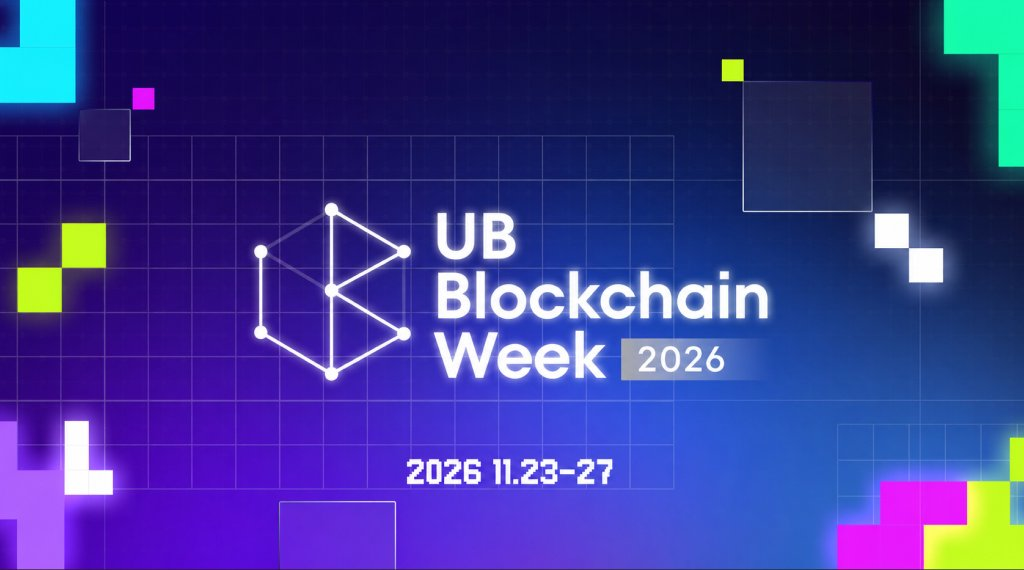
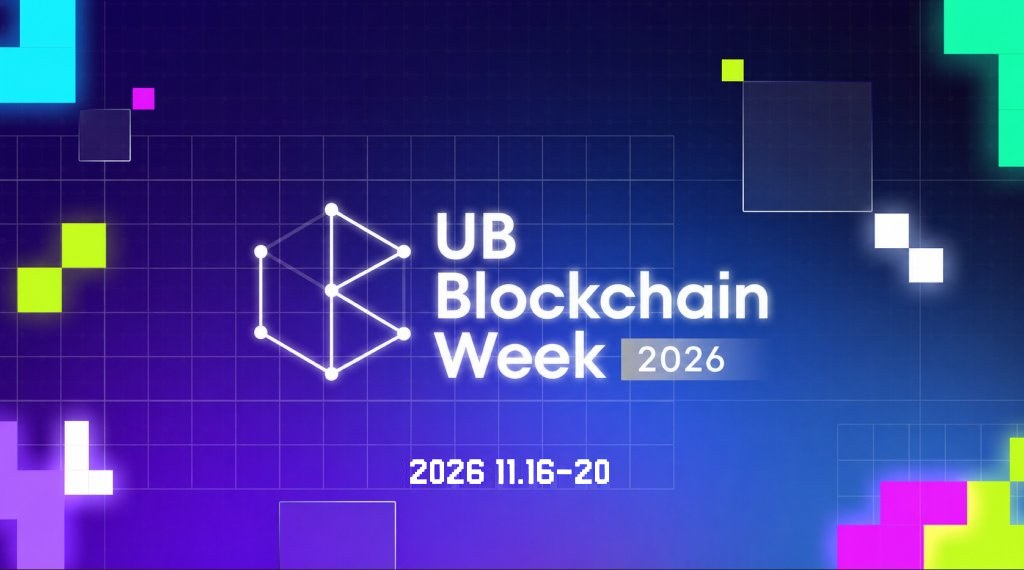
Move the event to 16 to 20 November and fix the share image base URL
Dates change everywhere they appear: hero, countdown target, program day
rail, footer, metadata and README. The Open Graph artwork had 11.23-27 baked
in, so the date was rebuilt from the artwork's own glyphs over an inpainted
background. The metadata base URL now falls back to Vercel's production
domain, so og:image no longer points at localhost on the deployed site.

Changed region(s): [[0.375, 0.8053, 0.625, 0.8649]]

diff --git a/lib/site.ts b/lib/site.ts
@@ -1,15 +1,23 @@
+/* Public origin for absolute metadata links (Open Graph image). Explicit env wins,
+   then Vercel's production domain, then the local dev server. */
+function siteUrl(): string {
+  if (process.env.NEXT_PUBLIC_SITE_URL) return process.env.NEXT_PUBLIC_SITE_URL;
+  if (process.env.VERCEL_PROJECT_PRODUCTION_URL) return `https://${process.env.VERCEL_PROJECT_PRODUCTION_URL}`;
+  return "http://localhost:3000";
+}
+
 export const site = {
   name: "UB Blockchain Week",
   year: "2026",
   title: "UB Blockchain Week 2026",
   description:
-    "UB Blockchain Week 2026: five days of talks, exhibition and meetups for Mongolia's blockchain community. 23 to 27 November 2026 in Ulaanbaatar. Hosted by TenGer HD.",
+    "UB Blockchain Week 2026: five days of talks, exhibition and meetups for Mongolia's blockchain community. 16 to 20 November 2026 in Ulaanbaatar. Hosted by TenGer HD.",
   city: "Ulaanbaatar, Mongolia",
   /* opening morning and closing evening, Ulaanbaatar time (UTC+8) */
-  start: "2026-11-23T09:00:00+08:00",
-  end: "2026-11-27T20:00:00+08:00",
+  start: "2026-11-16T09:00:00+08:00",
+  end: "2026-11-20T20:00:00+08:00",
   email: "oyunbiligt@gmail.com",
-  url: process.env.NEXT_PUBLIC_SITE_URL ?? "http://localhost:3000",
+  url: siteUrl(),
 } as const;
 
 export const navLinks = [
@@ -26,11 +34,11 @@ export function mailto(subject: string): string {
 }
 
 export const days = [
-  { name: "Mon", num: "23" },
-  { name: "Tue", num: "24" },
-  { name: "Wed", num: "25" },
-  { name: "Thu", num: "26" },
-  { name: "Fri", num: "27" },
+  { name: "Mon", num: "16" },
+  { name: "Tue", num: "17" },
+  { name: "Wed", num: "18" },
+  { name: "Thu", num: "19" },
+  { name: "Fri", num: "20" },
 ] as const;
 
 export type PixelColor = "cyan" | "lime" | "magenta" | "white";

diff --git a/components/Hero.tsx b/components/Hero.tsx
@@ -28,9 +28,9 @@ export default function Hero() {
             </span>
           </h1>
           <p className="hero__date">
-            <time dateTime="2026-11-23">2026 11.23</time>
+            <time dateTime="2026-11-16">2026 11.16</time>
             <span className="hero__date-dash">-</span>
-            <time dateTime="2026-11-27">27</time>
+            <time dateTime="2026-11-20">20</time>
           </p>
           <p className="hero__lede">Five days of talks, exhibition and meetups for Mongolia&apos;s blockchain community.</p>
           <div className="hero__actions">

diff --git a/components/Program.tsx b/components/Program.tsx
@@ -7,7 +7,7 @@ export default function Program() {
         <div className="section__head">
           <h2 className="section__title" id="program-title">Five days in November</h2>
           <p className="section__intro">
-            Monday to Friday, 23 to 27 November 2026. Sessions are being confirmed now and the full agenda will be published
+            Monday to Friday, 16 to 20 November 2026. Sessions are being confirmed now and the full agenda will be published
             on this page.
           </p>
         </div>

diff --git a/components/SiteFooter.tsx b/components/SiteFooter.tsx
@@ -13,7 +13,7 @@ export default function SiteFooter() {
             </li>
           ))}
         </ul>
-        <p className="site-footer__note">23 to 27 November 2026, Ulaanbaatar. Hosted by TenGer HD.</p>
+        <p className="site-footer__note">16 to 20 November 2026, Ulaanbaatar. Hosted by TenGer HD.</p>
       </div>
     </footer>
   );

diff --git a/app/layout.tsx b/app/layout.tsx
@@ -23,7 +23,7 @@ export const metadata: Metadata = {
   description: site.description,
   openGraph: {
     title: site.title,
-    description: "23 to 27 November 2026, Ulaanbaatar, Mongolia. Hosted by TenGer HD.",
+    description: "16 to 20 November 2026, Ulaanbaatar, Mongolia. Hosted by TenGer HD.",
     type: "website",
   },
 };

diff --git a/README.md b/README.md
@@ -1,6 +1,6 @@
 # UB Blockchain Week 2026
 
-Single-page site for UB Blockchain Week, 23 to 27 November 2026, Ulaanbaatar. Built with Next.js (App Router, TypeScript) from the brand assets in the Figma file "UB-Blockchain-week": logo, palette, posters and business card.
+Single-page site for UB Blockchain Week, 16 to 20 November 2026, Ulaanbaatar. Built with Next.js (App Router, TypeScript) from the brand assets in the Figma file "UB-Blockchain-week": logo, palette, posters and business card.
 
 ## Run it
 
